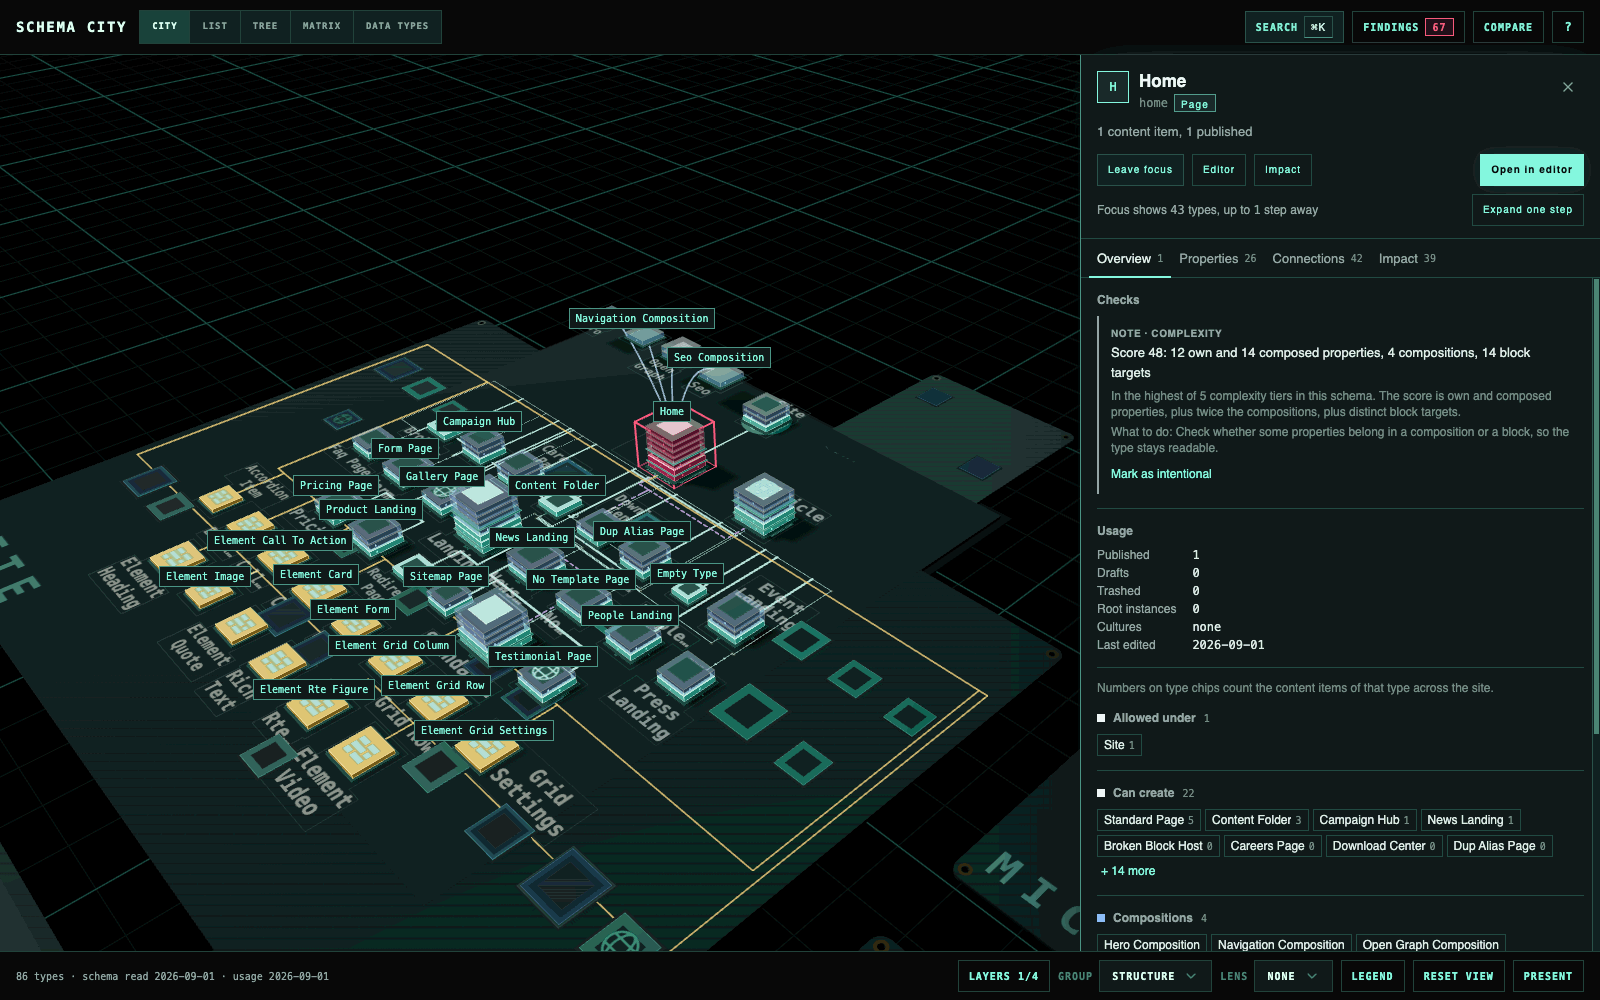
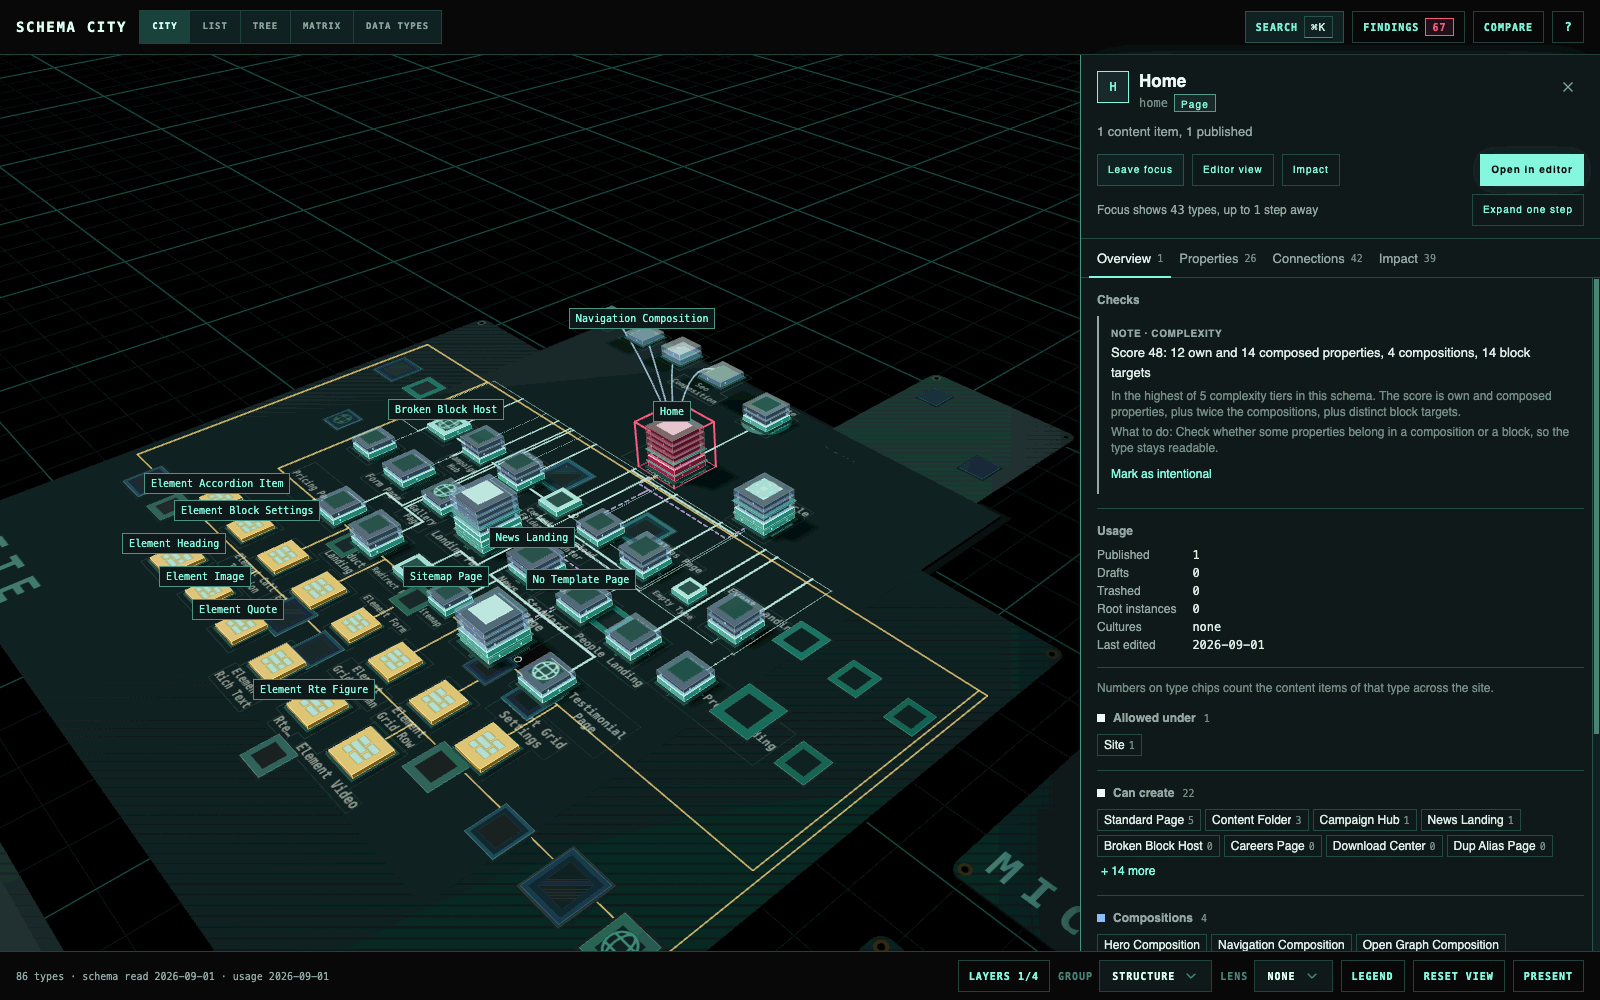
docs: regenerate the shots with the inspector or the findings dates, and record the backoffice check

diff --git a/PLAN.md b/PLAN.md
@@ -668,7 +668,7 @@ Done 2026-10-07 on `m10/app-chrome`, after the toolbar had grown to fourteen con
 - Header (`AppHeader` in `Chrome.tsx`): the name, the view switcher with the views over the whole schema (City, List, Tree, Matrix, Data Types), Search, Findings, Compare and Help. On a type page no radio is checked and the first is the tab stop. Below 560 px of its own width the name goes to the screen reader alone and Search drops its key, which keeps it to two rows at 420 px.
 - Type pages: Editor and Impact left the switcher (`PAGE_TABS`) and open from the inspector's Editor view and Impact buttons (Editor view, because Open in editor sits beside it), pressed while their page is on this type, which replace Editor layout and the Impact tab's Open impact. E and I toggle them; with nothing selected they open nothing, announce "Pick a type first" and show a hint for 2.5 s (`PickFirst`). A breadcrumb over the page, "Home › Editor" with Back to the view it came from, keeps the selection. A page whose type is put down goes back. `viewOf` in `url.ts` opens `view=editor` or `view=impact` without a known type on the city. The state is `useTypePages` in `Views.tsx`, with the branching in tested helpers.
 - Footer (`AppFooter`): the type count, schema and usage times from `snapshotDate`, in the reader's time zone as the Findings drawer now is too (the time on the day, the date otherwise, epochs left out), "usage loading" while the wrappers' request is out, and a lower-bound note for partial block counts; then a host slot; then, in the City only, Layers, Group, Lens, Legend and Reset view, and Present everywhere. Below 960 px of its own width the City's tools fold into one City tools popover, which keeps the bar to one row at 900 px. The first-visit hint stays over the canvas and points at the footer.
-- Header and footer are labelled regions, hidden while presenting. The harness's sample picker moved into the footer slot, and `shots.mjs` hides `.demo-picker`. The two backoffice wrappers now extend one `SchemaCityElement`, which removed the copy of their loading the usage flag would have widened.
+- Header and footer are labelled regions, hidden while presenting. The harness's sample picker moved into the footer slot, and `shots.mjs` hides `.demo-picker`. The two backoffice wrappers now extend one `SchemaCityElement`, which removed the copy of their loading the usage flag would have widened. Checked in the backoffice on a fresh seeded site: both entry points load graph, usage and decisions with 200s, Editor view, Impact, Back and Open in editor work, the workspace mounts again after leaving and coming back, and the only console output is three.js's own Clock deprecation. That pass found Tailwind's `@property` rules ignored inside the shadow root, which had left every border, outline and shadow at none; the shared element now registers them on the document once.
 
 ### Later, explicitly not v1
 
